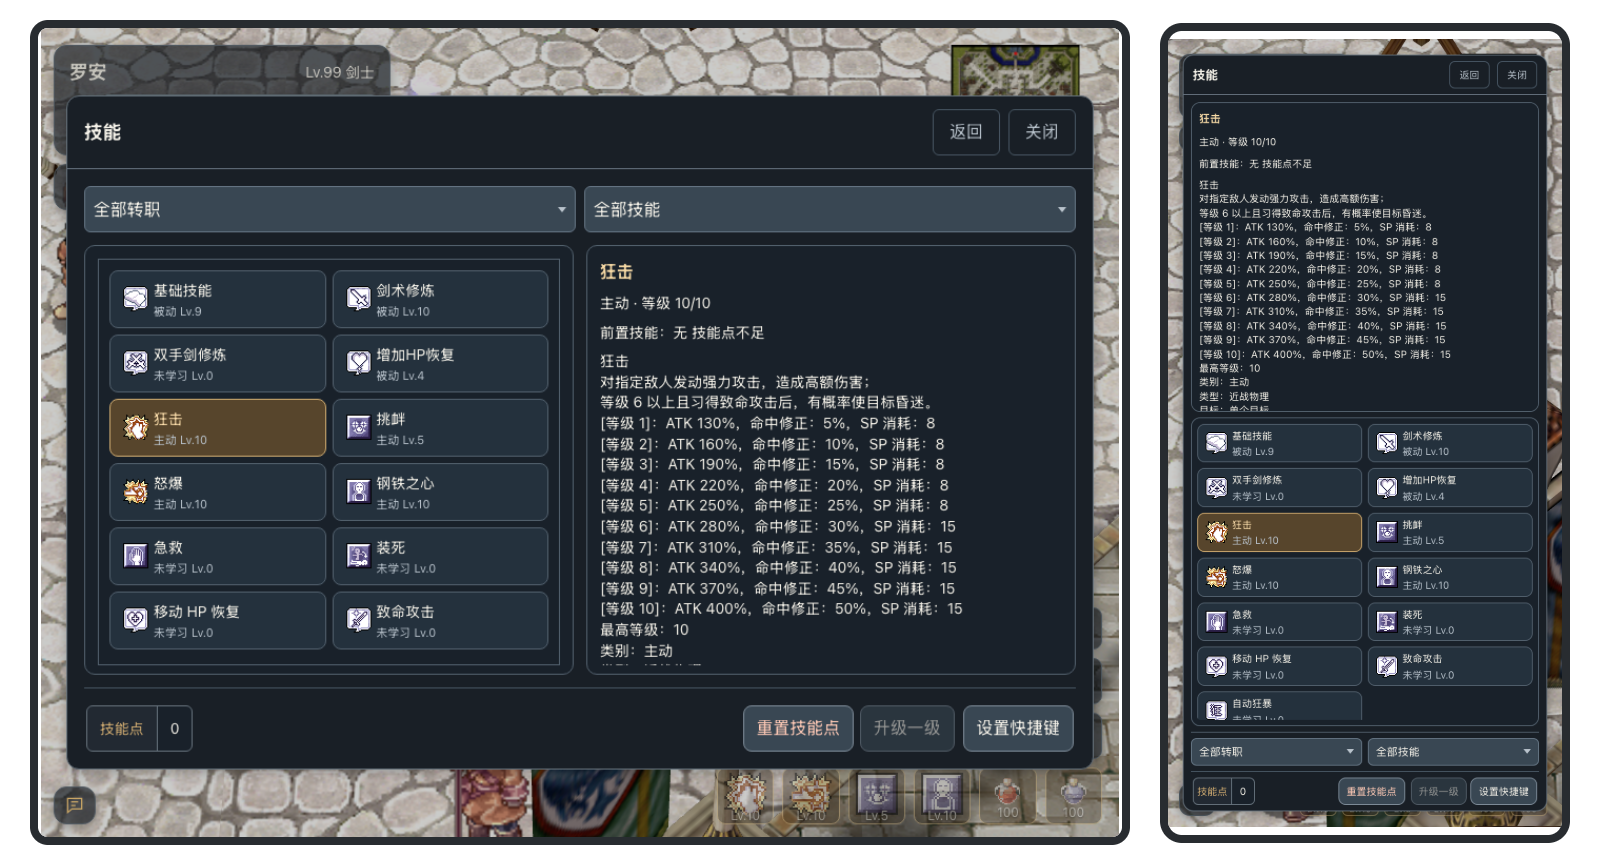
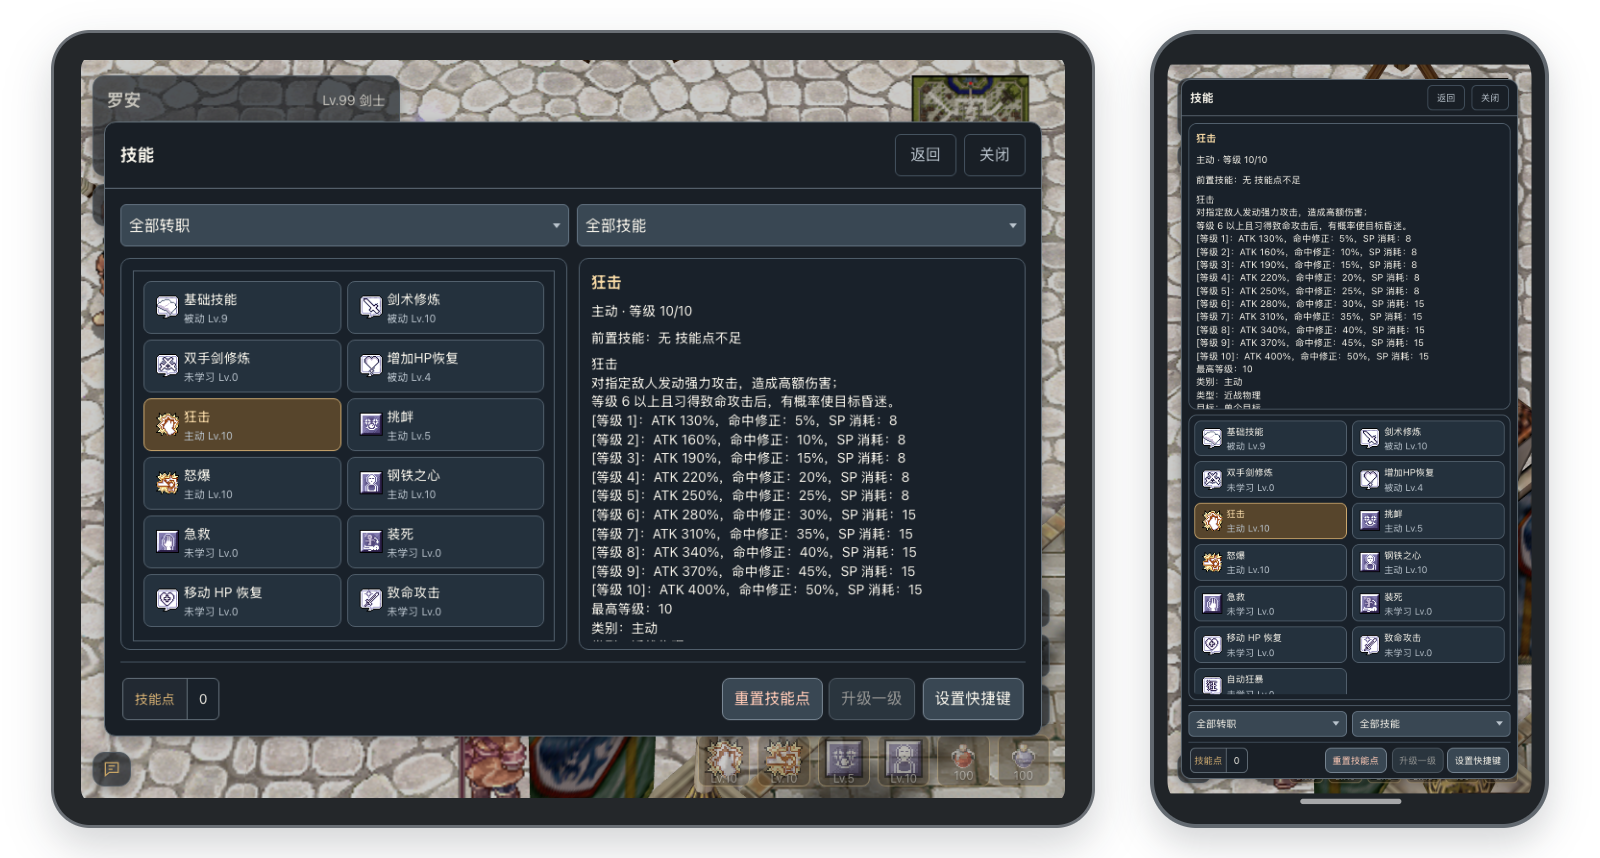
docs(readme): unify device frames in skill comparison

diff --git a/docs/development/readme-images/templates/compose.html b/docs/development/readme-images/templates/compose.html
@@ -12,8 +12,10 @@
 .tablet{position:absolute;left:36px;top:440px;width:696px;height:532px;padding:14px 18px;border:2px solid #6b7076;background:#24272a;border-radius:26px;box-shadow:0 12px 28px #141b2430}
 .tablet img{border-radius:10px}.phone{position:absolute;left:1252px;top:358px;width:300px;height:600px;padding:10px;border:3px solid #626970;background:#202428;border-radius:35px;box-shadow:0 12px 28px #141b2430}
 .phone img{border-radius:23px}.phone:after{content:"";position:absolute;bottom:15px;left:110px;width:76px;height:4px;border-radius:4px;background:#fff9}
-.skills{width:1600px;height:865px;background:transparent;display:flex;align-items:center;gap:30px;padding:20px 30px}
-.skills .wide{width:1100px;height:825px;border:8px solid #282c30;border-radius:18px;overflow:hidden}.skills .tall{width:410px;height:820px;border:8px solid #282c30;border-radius:22px;overflow:hidden}
+.skills{width:1600px;height:858px;background:transparent;display:flex;align-items:center;justify-content:center;gap:55px;padding:30px}
+.skills .wide{position:relative;width:1044px;height:798px;flex:none}.skills .tall{position:relative;width:399px;height:798px;flex:none}
+.skills .tablet{left:0;top:0;transform:scale(1.5);transform-origin:top left}
+.skills .phone{left:0;top:0;transform:scale(1.33);transform-origin:top left}
 </style>
 <div class="hero" id="hero">
  <div class="stand"></div><div class="foot"></div>
@@ -21,5 +23,5 @@
  <div class="tablet"><img src="tablet.png"></div>
  <div class="phone"><img src="phone.png"></div>
 </div>
-<div class="skills" id="skills"><div class="wide"><img src="tablet-skills.png"></div><div class="tall"><img src="phone-skills.png"></div></div>
+<div class="skills" id="skills"><div class="wide"><div class="tablet"><img src="tablet-skills.png"></div></div><div class="tall"><div class="phone"><img src="phone-skills.png"></div></div></div>
 </html>

diff --git a/docs/development/readme-images/composition.md b/docs/development/readme-images/composition.md
@@ -26,14 +26,11 @@
 
 ## 技能对比图参数
 
-画布 1600 × 865，透明背景，Flex 横向排列、垂直居中，上下 padding 20px、左右 30px，gap 30px。
+画布 1600 × 858，透明背景，上下保留 30px，设备间距 55px，整体水平居中。
 
-| 容器 | CSS 声明尺寸 | 样式 |
-| --- | --- | --- |
-| 平板 `.wide` | 1100 × 825 | 8px 边框 `#282c30`，圆角 18px |
-| 手机 `.tall` | 410 × 820 | 8px 边框 `#282c30`，圆角 22px |
+第二张复用首图的 `.tablet`、`.phone` 设备框，包括背景色、边框、屏幕圆角、阴影及手机手势条；不再维护另一套简化框。平板按 1.5 倍显示为 1044 × 798，手机按 1.33 倍显示为 399 × 798，两者等高。各自等比缩放，不拉伸截图。
 
-保留模板默认 Flex 收缩行为；上述宽度是 CSS 声明值，不是保证不收缩的最终像素尺寸。需要复现当前图时直接使用模板，不另行用坐标表重画。
+屏幕仍以 `object-fit: contain` 完整显示；比例差产生的少量空隙由设备深色背景承接，不透明露底，不出现白色内边。
 
 ## 导出
 

diff --git a/docs/development/readme-images/README.md b/docs/development/readme-images/README.md
@@ -19,7 +19,7 @@
 | 图片 | 文件 | 像素尺寸 | 格式 |
 | --- | --- | --- | --- |
 | 三端首图 | `happyro-three-devices.png` | 1600 × 1000 | PNG，透明背景 |
-| 跨端技能界面 | `happyro-responsive-skills.png` | 1600 × 865 | PNG，透明背景 |
+| 跨端技能界面 | `happyro-responsive-skills.png` | 1600 × 858 | PNG，透明背景 |
 | 魔物图鉴 | `happyro-codex.png` | 880 × 680 | PNG |
 | 自动战斗 | `happyro-combat.png` | 920 × 670 | PNG |
 | 后台掉落倍率 | `happyro-admin-settings.png` | 1280 × 630 | PNG |
